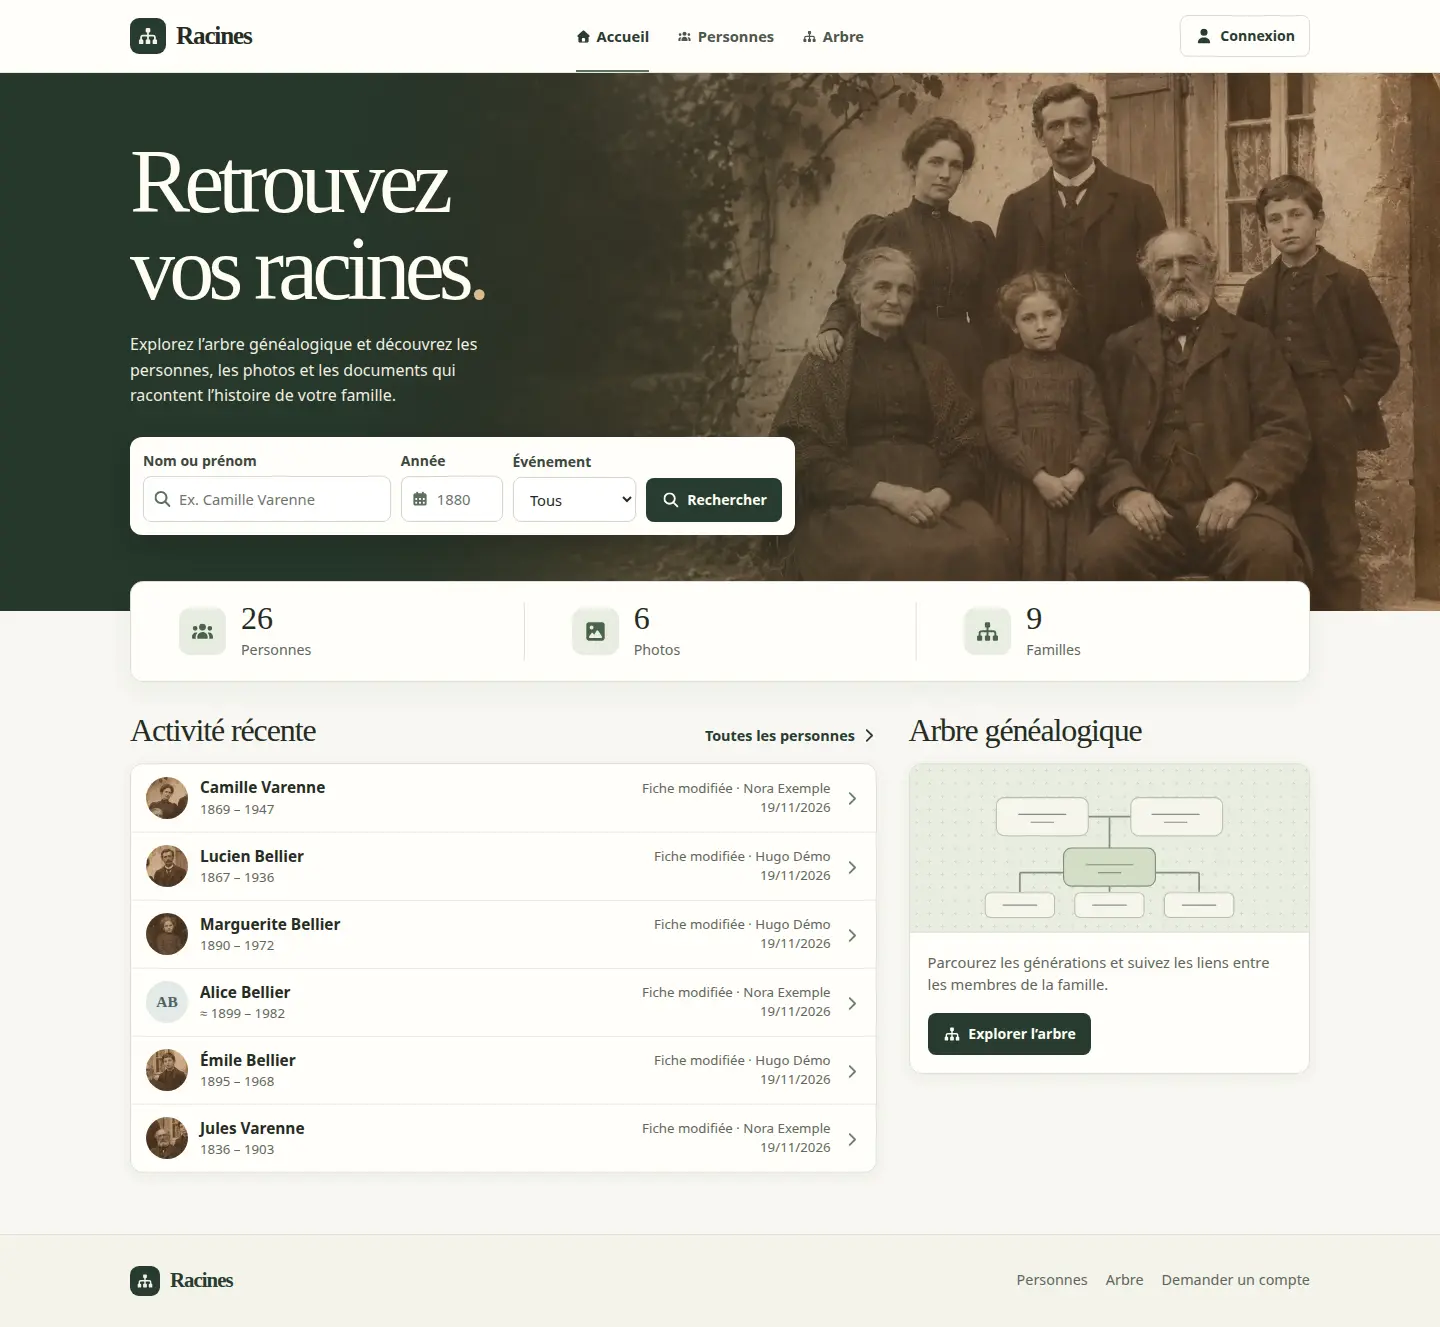
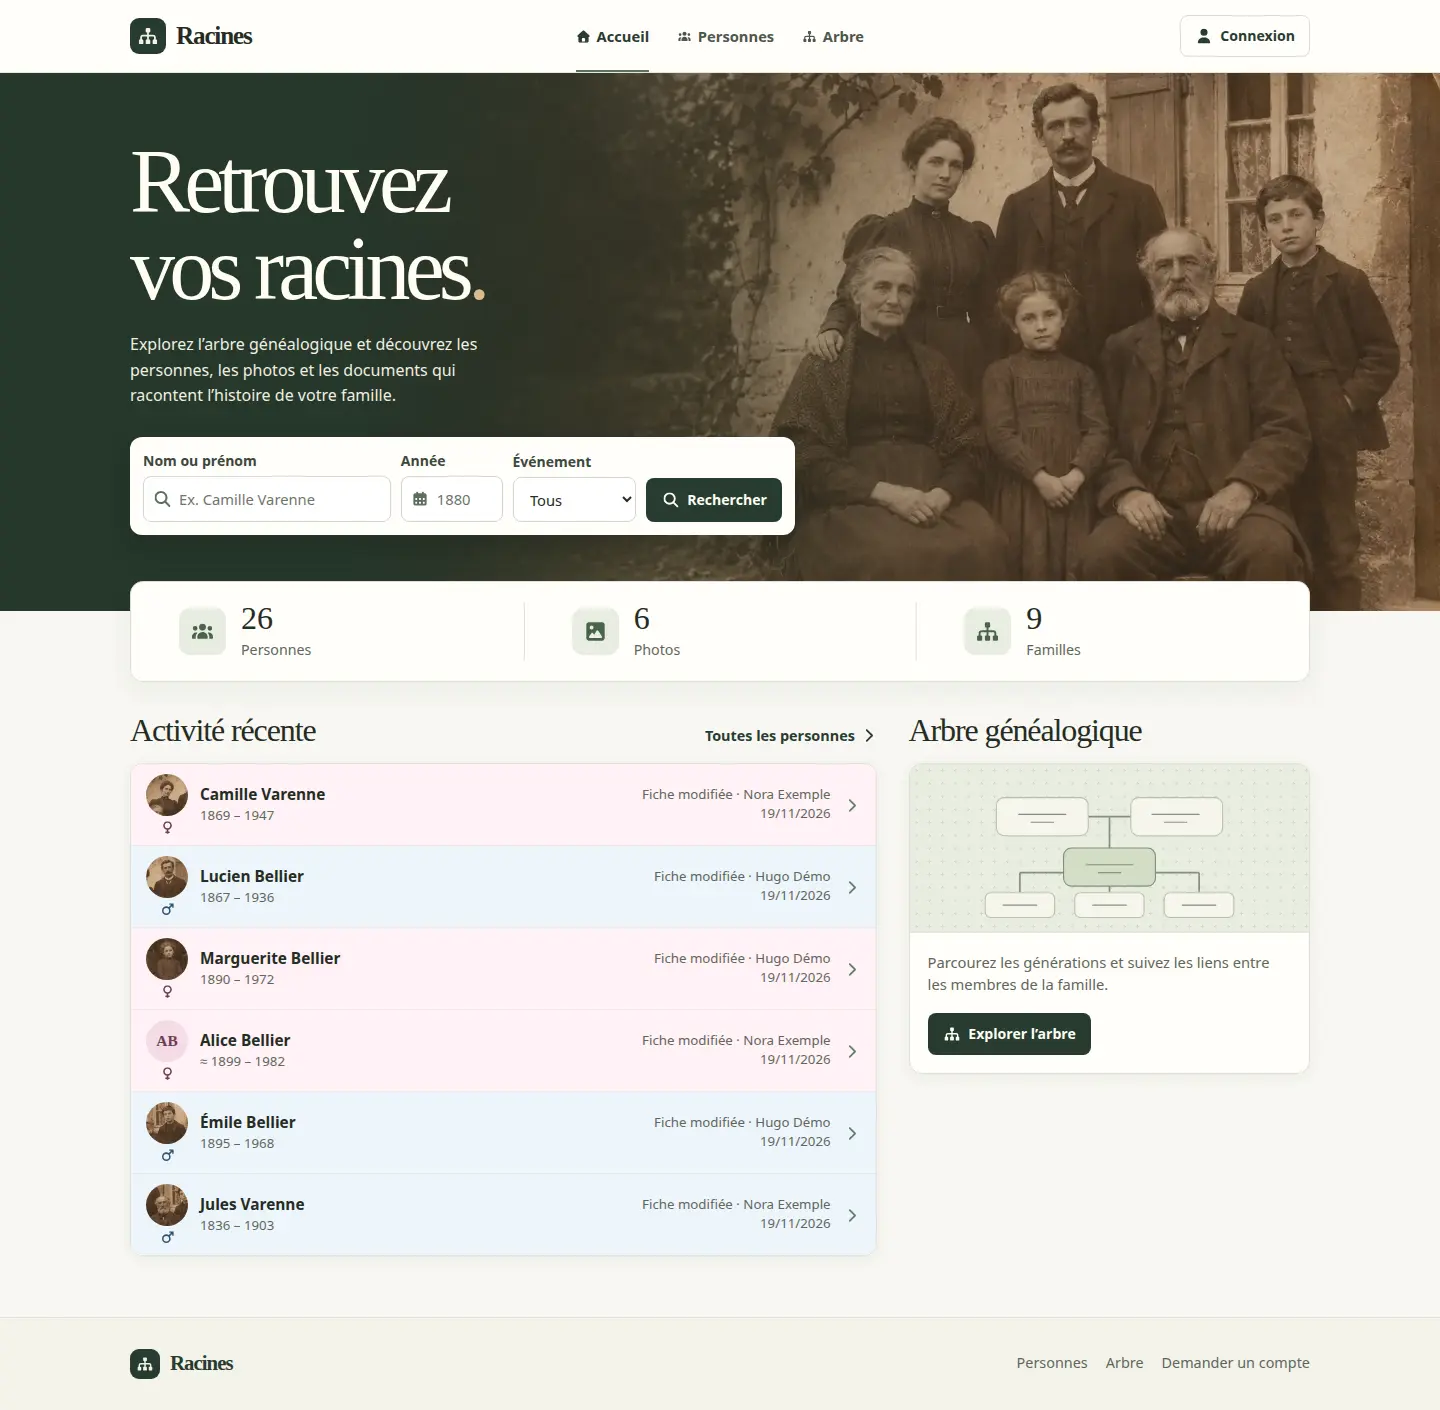
Appliquer la palette et les symboles à l’activité récente

diff --git a/public/assets/style.css b/public/assets/style.css
@@ -183,9 +183,8 @@ h3 { font-size: 1.23rem; }
 .section-top { display: flex; justify-content: space-between; align-items: baseline; gap: .75rem; margin-bottom: 14px; }
 .section-top p { margin: 0; color: var(--muted); }
 .activity-list, .explore-card { border: 1px solid var(--line); background: var(--white); border-radius: 13px; overflow: hidden; box-shadow: var(--shadow); }
-.activity-row { display: grid; grid-template-columns: auto minmax(0, 1fr) minmax(154px, auto) 18px; gap: 12px; align-items: center; min-height: 68px; padding: 10px 15px; }
+.activity-row { display: grid; grid-template-columns: auto minmax(0, 1fr) minmax(154px, auto) 18px; gap: 12px; align-items: center; min-height: 68px; padding: 10px 15px; background: var(--person-fill, var(--white)); }
 .activity-row + .activity-row { border-top: 1px solid #ebebe3; }
-.activity-row:hover { background: #f2f4eb; }
 .activity-row:focus-visible { outline-offset: -3px; }
 .activity-person, .activity-meta { display: grid; min-width: 0; }
 .activity-person strong { font-size: .96rem; font-weight: 670; overflow-wrap: anywhere; }
@@ -236,9 +235,10 @@ h3 { font-size: 1.23rem; }
     padding: 13px;
     background: var(--person-fill, var(--white));
 }
-.person-card:hover { background: var(--person-avatar, #f2f4eb); }
-.directory-avatar { display: flex; flex-direction: column; align-items: center; gap: 4px; min-height: 61px; }
-.directory-avatar .avatar { --avatar-bg: var(--person-avatar, #e7ece2); --avatar-ink: var(--person-ink, #455d47); }
+.activity-row:hover, .person-card:hover { background: var(--person-avatar, #f2f4eb); }
+/* Réserver la même hauteur sous l'avatar quand la fiche n'a pas de symbole. */
+.card-avatar { display: flex; flex-direction: column; align-items: center; gap: 4px; min-height: 61px; }
+.card-avatar .avatar { --avatar-bg: var(--person-avatar, #e7ece2); --avatar-ink: var(--person-ink, #455d47); }
 .person-card strong, .person-card small { display: block; overflow-wrap: anywhere; }
 .person-card small { color: var(--muted); font-size: .84rem; }
 .person-card > svg { color: #658068; }
@@ -415,8 +415,8 @@ h3 { font-size: 1.23rem; }
 .graph-surface { min-width: max-content; cursor: grab; }
 .family-svg { display: block; margin-inline: auto; overflow: hidden; user-select: none; }
 .graph-surface.is-dragging, .is-dragging .tree-node { cursor: grabbing; }
-/* Même palette dans l'arbre et dans l'annuaire. La personne centrale a une teinte plus soutenue. */
-.tree-node-female, .person-card-female {
+/* Palette commune aux cartes et à l'activité. La personne centrale de l'arbre a une teinte plus soutenue. */
+.tree-node-female, .person-card-female, .activity-row-female {
     --person-fill: #fff2f6;
     --person-outline: #bd879f;
     --person-avatar: #f4dbe6;
@@ -424,7 +424,7 @@ h3 { font-size: 1.23rem; }
     --node-centre: #f7dfeb;
     --node-emphasis: #965573;
 }
-.tree-node-male, .person-card-male {
+.tree-node-male, .person-card-male, .activity-row-male {
     --person-fill: #eef5fc;
     --person-outline: #86a3bf;
     --person-avatar: #d9e9f8;
@@ -582,7 +582,7 @@ dialog h2 { margin: 0 34px 16px 0; }
     .page-heading { flex-wrap: wrap; margin-bottom: 18px; }
     .section-top { align-items: flex-start; }
     .activity-row { grid-template-columns: auto minmax(0, 1fr) auto; gap: 3px 9px; }
-    .activity-row .avatar { grid-column: 1; grid-row: 1 / span 2; }
+    .activity-row .card-avatar { grid-column: 1; grid-row: 1 / span 2; }
     .activity-person { grid-column: 2; grid-row: 1; }
     .activity-meta { grid-column: 2; grid-row: 2; text-align: left; display: flex; flex-wrap: wrap; gap: 0 6px; font-size: .8rem; }
     .activity-open { grid-column: 3; grid-row: 1 / span 2; }

diff --git a/views/home.php b/views/home.php
@@ -33,8 +33,12 @@
                     <p class="empty">Aucune fiche pour le moment.</p>
                 <?php endif ?>
                 <?php foreach ($recent as $item): ?>
-                    <a class="activity-row" href="<?= e(url('personne', ['id' => $item['id']])) ?>">
-                        <?= avatar($item, $item['photo_id']) ?>
+                    <a class="activity-row<?= $item['sex'] ? ' activity-row-' . e($item['sex']) : '' ?>"
+                        href="<?= e(url('personne', ['id' => $item['id']])) ?>">
+                        <span class="card-avatar">
+                            <?= avatar($item, $item['photo_id']) ?>
+                            <?= sex_icon($item['sex']) ?>
+                        </span>
                         <span class="activity-person">
                             <strong><?= e(full_name($item)) ?></strong>
                             <span><?= e(lifespan($item)) ?></span>

diff --git a/views/directory.php b/views/directory.php
@@ -15,7 +15,7 @@
             <?php foreach ($people as $item): ?>
                 <a class="person-card<?= $item['sex'] ? ' person-card-' . e($item['sex']) : '' ?>"
                     href="<?= e(url('personne', ['id' => $item['id']])) ?>">
-                    <span class="directory-avatar">
+                    <span class="card-avatar">
                         <?= avatar($item) ?>
                         <?= sex_icon($item['sex']) ?>
                     </span>

diff --git a/README.md b/README.md
@@ -26,7 +26,7 @@ Ouvrir [Racines en local](http://127.0.0.1:8000). La démo crée 26 personnes fi
 - La recherche combine le nom ou prénom et l’année de naissance ou de décès. Les dates peuvent être complètes, réduites à l’année, qualifiées par « vers », « avant » ou « après », ou laissées vides.
 - Une famille correspond à un groupe distinct de parents qui ont au moins un enfant renseigné. Plusieurs enfants du même groupe comptent pour une seule famille. Les frères et sœurs sont déduits des parents communs.
 - L’arbre affiche deux générations de part et d’autre de la personne centrale au départ. Les boutons « Ascendants » et « Descendants » ajoutent des générations. Chaque case ouvre une fiche. On peut zoomer, déplacer la vue et déplacer temporairement les cases. La mise en page privilégie les liens lisibles et réduit les croisements.
-- Dans l’arbre et l’annuaire, les cartes sont roses pour les femmes, bleues pour les hommes et neutres quand le sexe reste à renseigner. Le symbole apparaît sous les initiales ou le médaillon. Le champ « Sexe » se modifie sur la fiche.
+- Dans l’arbre, l’annuaire et l’activité récente, les cartes sont roses pour les femmes, bleues pour les hommes et neutres quand le sexe reste à renseigner. Le symbole apparaît sous l’avatar. Le champ « Sexe » se modifie sur la fiche.
 - Le symbole du sexe apparaît aussi devant les prénoms dans la section « Relations ». Le menu de l’arbre propose « Créer un conjoint » et présélectionne le sexe opposé quand le sexe de la personne de référence est connu. Le choix est modifiable. Le lien créé est une union.
 - Le clic droit, l’appui prolongé ou `Maj` + `F10` ouvrent le menu de la case ou du lien sélectionné. Les éditeurs peuvent y modifier un lien ou créer un père, une mère, un enfant biologique ou adoptif, un frère ou une sœur. Créer un membre de la fratrie reprend les filiations connues. Si les parents sont inconnus, le site enregistre un lien de fratrie direct. Le mainteneur peut aussi supprimer une fiche depuis l’arbre.
 - Les éditeurs modifient les liens en cliquant dessus ou en passant par la section « Relations ». Pour ajouter un lien, ils peuvent choisir les deux personnes dans le formulaire ou sélectionner les deux cases dans le graphique. Une année de fin signale une union terminée.
